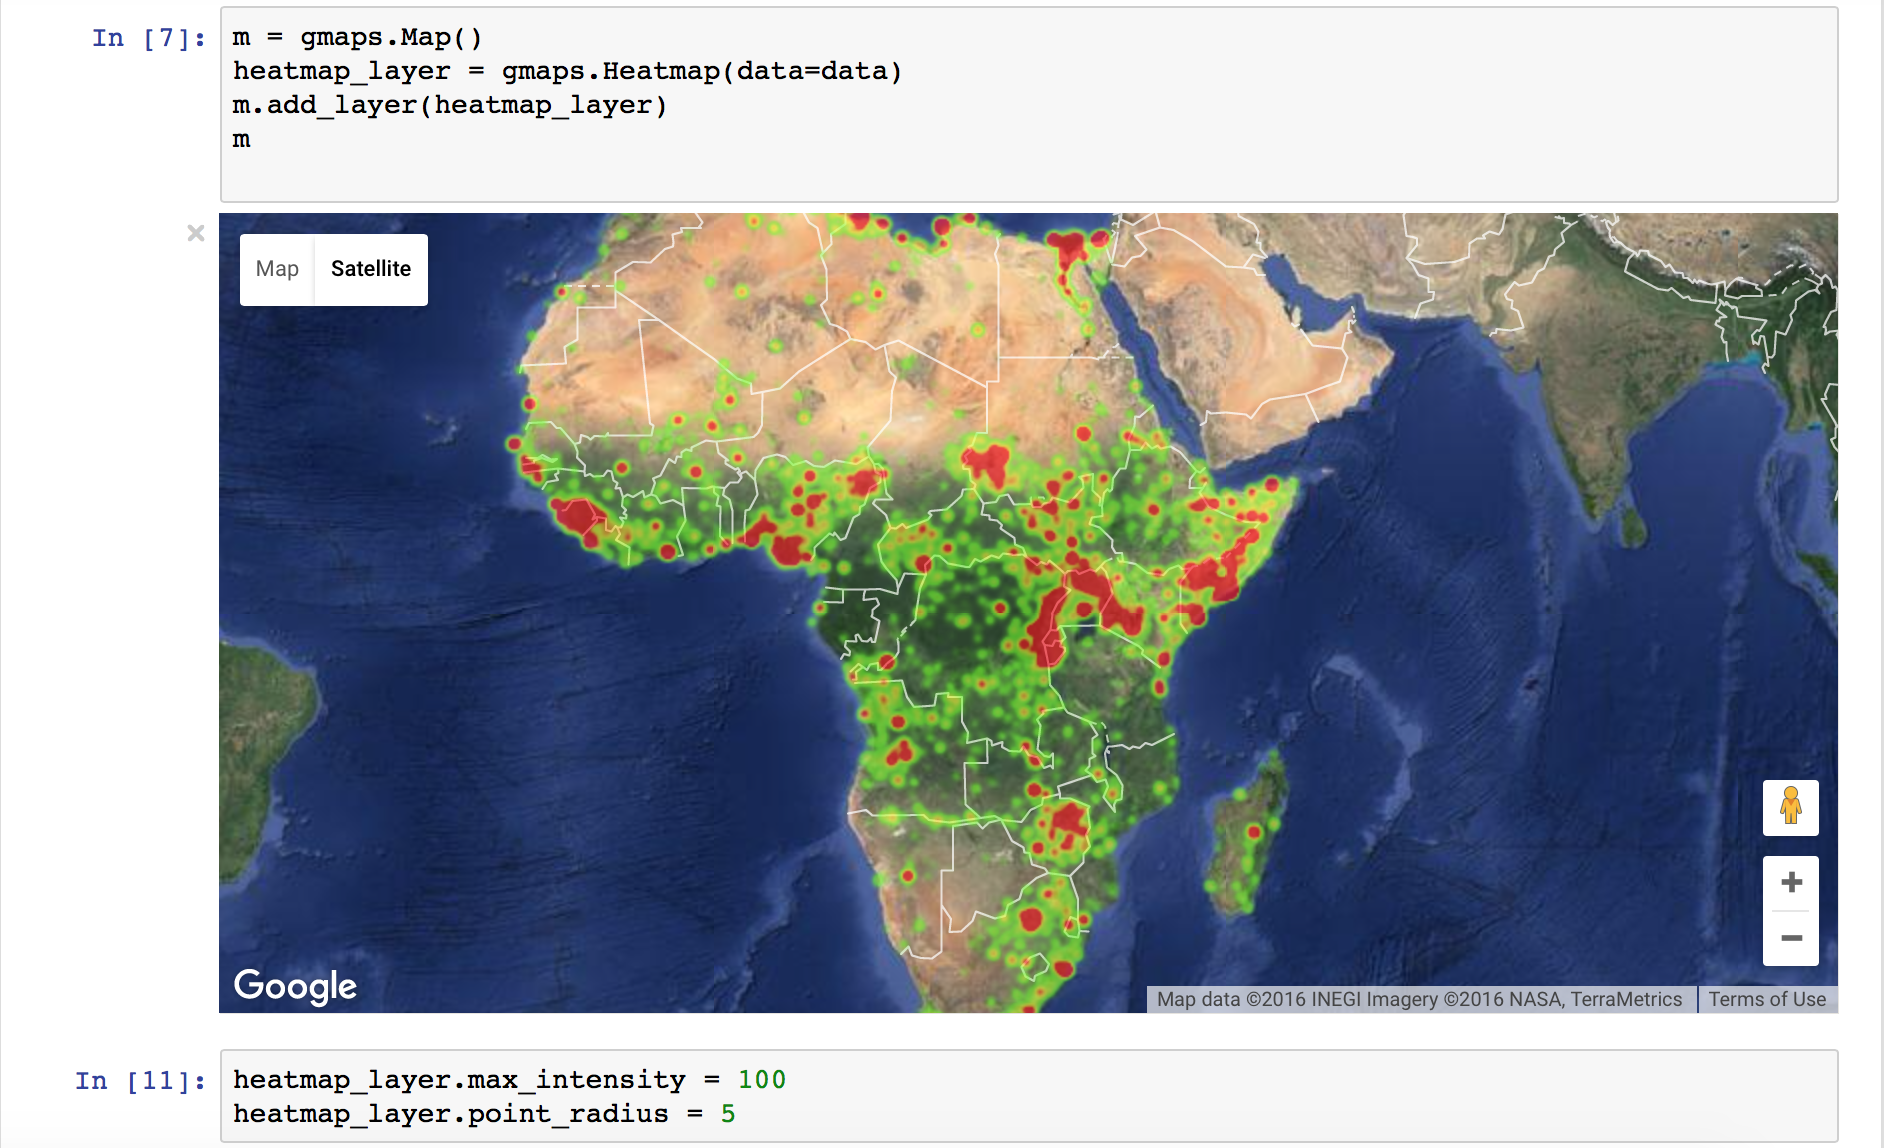
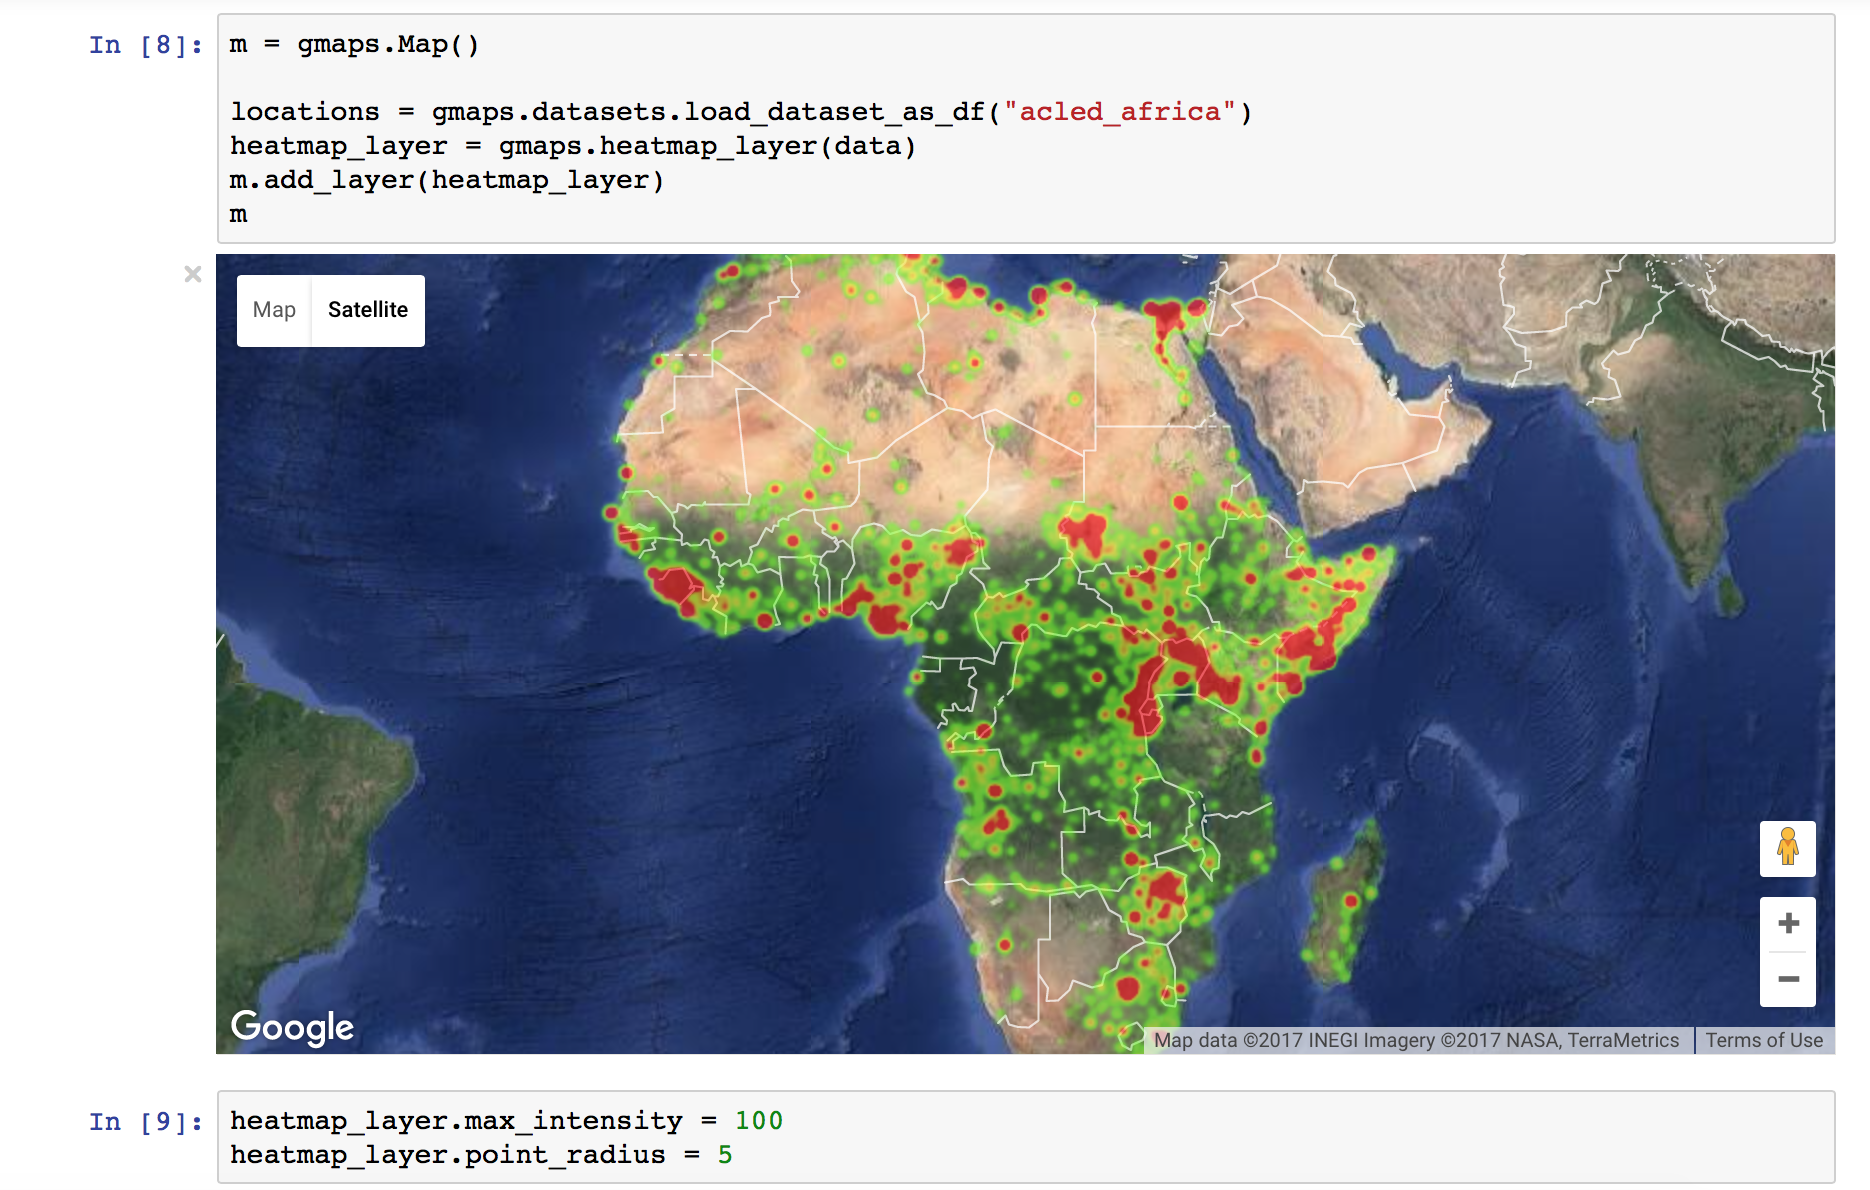
Finish adapting tutorial for heatmaps

diff --git a/docs/source/gmaps.rst b/docs/source/gmaps.rst
@@ -76,25 +76,25 @@ Heatmaps are a good way of getting a sense of the density and clusters of geogra
 
   import gmaps.datasets
 
-  data = gmaps.datasets.load_dataset("acled_africa.csv")
-  print(rows[:10])
+  locations = gmaps.datasets.load_dataset_as_df("acled_africa")
 
-  # => prints latitude, longitude pairs
-  [(36.4686, 2.8289),
-  (36.6725, 2.7894),
-  ...
+  locations.head()
+  # => dataframe with 'longitude' and 'latitude' columns
 
 
 We already know how to build a heatmap layer::
 
   import gmaps
   import gmaps.datasets
-  gmaps.configure("AI...")
+  gmaps.configure(api_key="AI...")
 
+  locations = gmaps.datasets.load_dataset_as_df("acled_africa")
   m = gmaps.Map()
-  heatmap_layer = gmaps.Heatmap(data=data)
+  heatmap_layer = gmaps.heatmap_layer(locations)
   m.add_layer(heatmap_layer)
   m
+
+.. image:: acled_africa_heatmap_basic.png
 
 Preventing dissipation on zoom
 ++++++++++++++++++++++++++++++
@@ -116,7 +116,7 @@ Setting the color gradient and opacity
 
 You can set the color gradient of the map by passing in a list of colors. Google maps will interpolate linearly between those colors. You can represent a color as a string denoting the color (the colors allowed by `this <http://www.w3.org/TR/css3-color/#html4>`_)::
 
-  heatmap.gradient = [
+  heatmap_layer.gradient = [
       'white',
       'silver',
       'gray'
@@ -125,7 +125,7 @@ You can set the color gradient of the map by passing in a list of colors. Google
 If you need more flexibility, you can represent colours as an RGB triple or an RGBA quadruple::
 
 
-  heatmap.gradient = [
+  heatmap_layer.gradient = [
       (200, 200, 200, 0.6),
       (100, 100, 100, 0.3),
       (50, 50, 50, 0.3)
@@ -135,14 +135,28 @@ If you need more flexibility, you can represent colours as an RGB triple or an R
 
 You can also use the ``opacity`` option to set a single opacity across the entire colour gradient::
 
-  heatmap.opacity = 0.0 # make the heatmap transparent
+  heatmap_layer.opacity = 0.0 # make the heatmap transparent
 
 Weighted heatmaps
 ^^^^^^^^^^^^^^^^^
 
-Weighted heatmap layers are identical to heatmaps, except that the `data` object is a triple indicating `(latitude, longitude, weight)`. Weights must all be positive (this is a limitation in Google maps itself).
+By default, heatmaps assume that every row is of equal importance. You can override this by passing weights through the `weights` keyword argument. The `weights` array is an iterable (e.g. a Python list or a Numpy array) or a single pandas series. Weights must all be positive (this is a limitation in Google maps itself).::
 
-Weighted heatmaps support the same options as heatmaps.
+  import gmaps
+  import gmaps.datasets
+  gmaps.configure(api_key="AI...")
+
+  df = gmaps.datasets.load_dataset_as_df("earthquakes")
+  # dataframe with columns ('latitude', 'longitude', 'magnitude')
+
+  m = gmaps.Map()
+  heatmap_layer = gmaps.heatmap_layer(
+      df[["latitude", "longitude"]], weights=df["magnitude"],
+      max_intensity=30, point_radius=3.0 
+  )
+  m.add_layer(heatmap_layer)
+  m
+
 
 .. image:: weighted-heatmap-example.png
 
